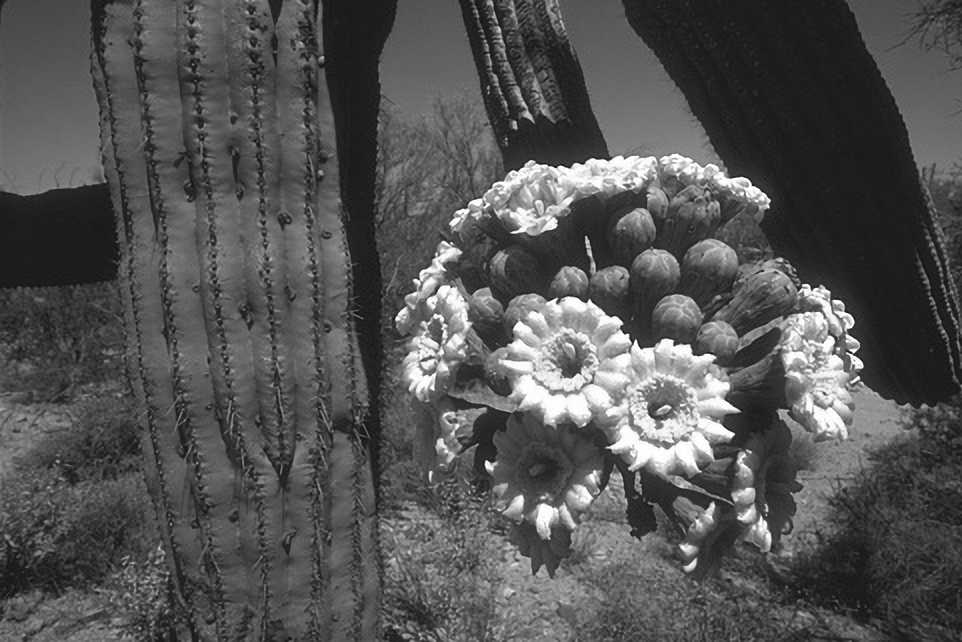
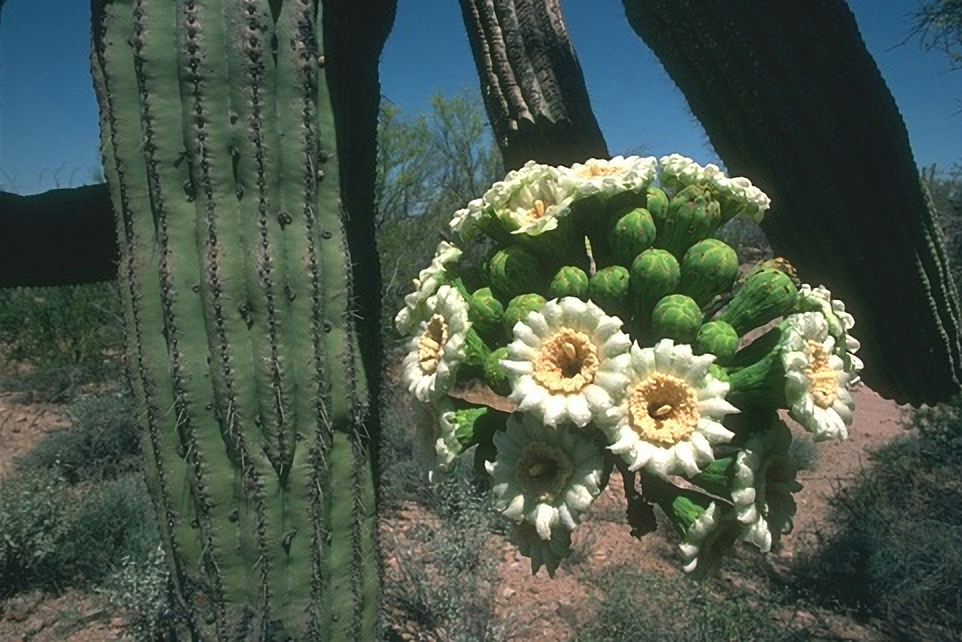
feat(demo.py): 返回彩色图像

diff --git a/demo.py b/demo.py
@@ -30,6 +30,11 @@ def get_y(img):
 
     return img
 
+def get_y_cb_cr(img):
+    img_ycbcr = img.convert('YCbCr')
+    y, cb, cr = img_ycbcr.split()
+    return y, cb, cr
+
 
 checkpoint = torch.load('ckp.pt', map_location='cuda:0')
 net = LapSrnMS(5, 5, 4)
@@ -37,11 +42,12 @@ net = torch.nn.DataParallel(net).to(device)
 net.load_state_dict(checkpoint['state_dict'])
 net.to('cuda')
 
-im_4x = get_y(Image.open("dataset/19021.png"))
+# 分离三个通道
+y, cb, cr = get_y_cb_cr(Image.open("dataset/19021.png"))
 
-im = tf.to_tensor(im_4x)
+im = tf.to_tensor(y)
 im = im.unsqueeze(0)
-im = im.to('cuda')
+im = im.to('cuda:0')
 
 with torch.no_grad():
     out_2x, out_4x = net(im)
@@ -50,6 +56,20 @@ with torch.no_grad():
 
 out_2x = transforms.ToPILImage()(out_2x[0].cpu())
 out_4x = transforms.ToPILImage()(out_4x[0].cpu())
+
+cb_2x = cb.resize(out_2x.size, Image.BICUBIC)
+cr_2x = cr.resize(out_2x.size, Image.BICUBIC)
+
+cb_4x = cb.resize(out_4x.size, Image.BICUBIC)
+cr_4x = cr.resize(out_4x.size, Image.BICUBIC)
+
+# 将处理后的Y通道与原始的Cb、Cr通道合并
+out_2x = Image.merge("YCbCr", [out_2x.convert('L'), cb_2x, cr_2x])
+out_4x = Image.merge("YCbCr", [out_4x.convert('L'), cb_4x, cr_4x])
+
+# 将YCbCr格式的图像转换回RGB格式
+out_2x = out_2x.convert('RGB')
+out_4x = out_4x.convert('RGB')
 
 out_2x.save("out_2x.png", "PNG")
 out_4x.save("out_4x.png", "PNG")
